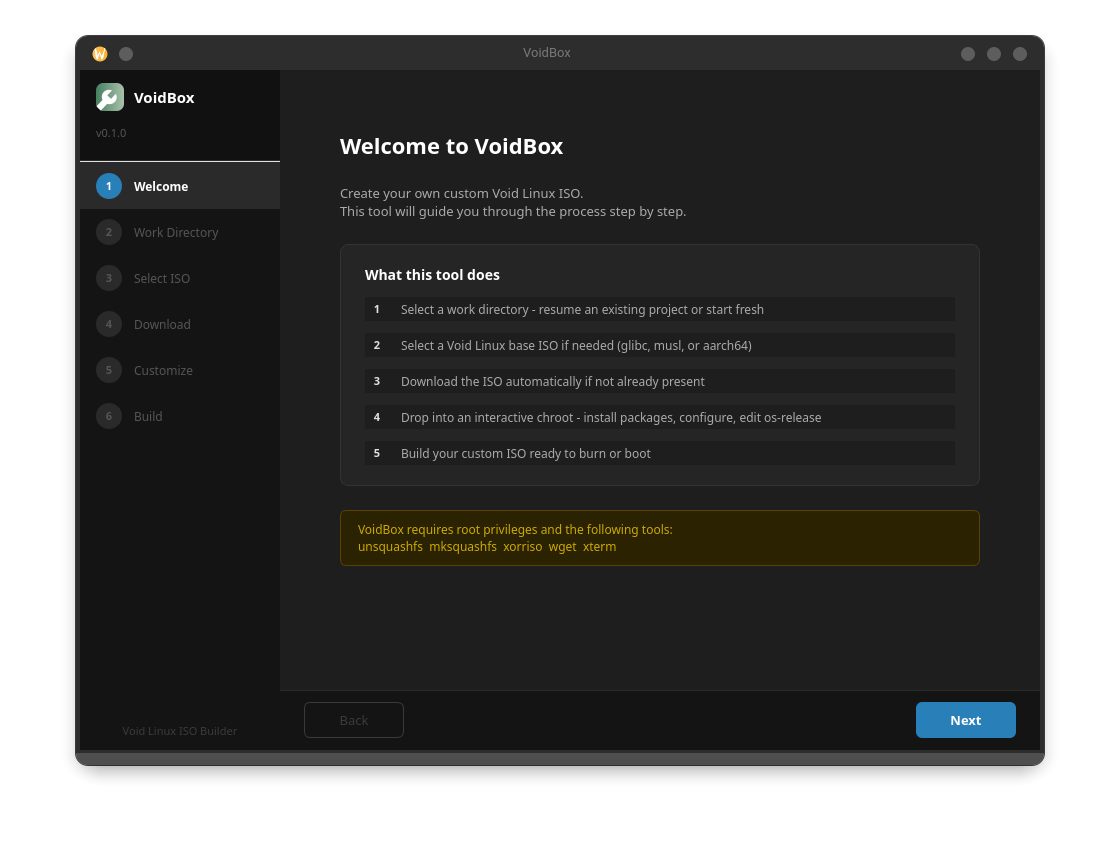
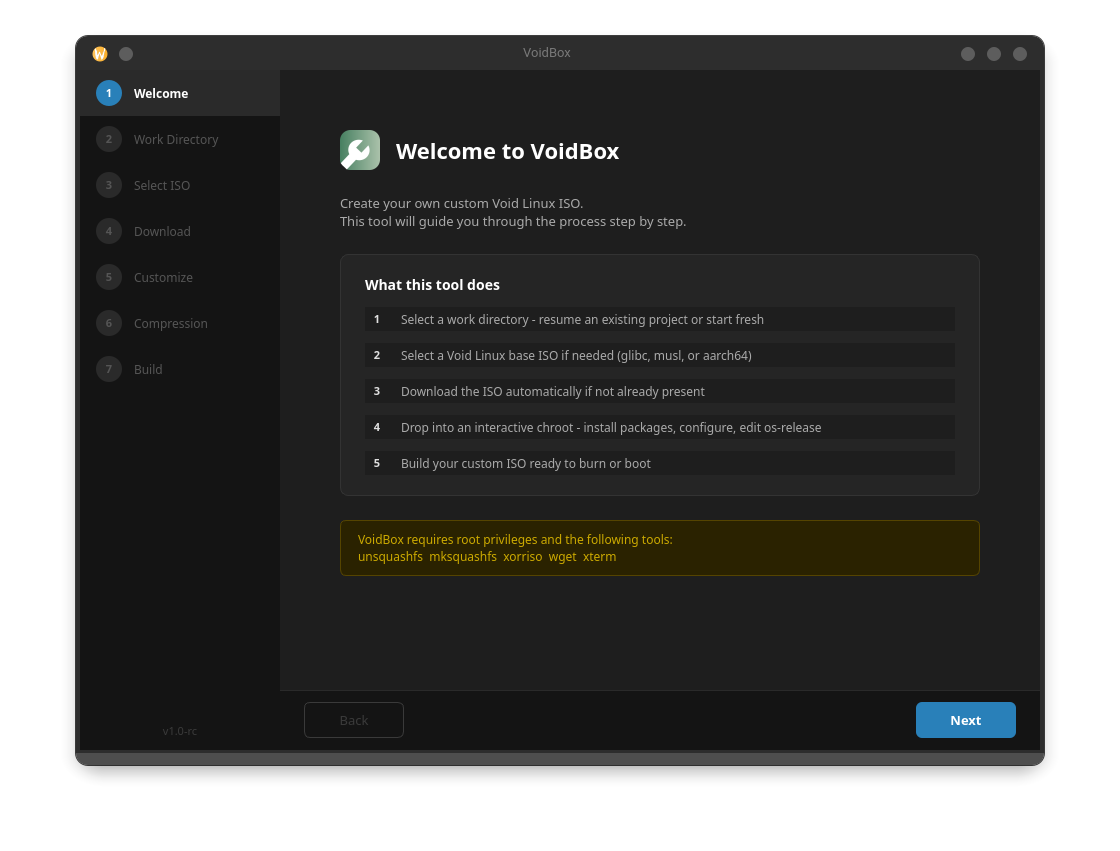
Update welcome menu

diff --git a/ui/main_window.py b/ui/main_window.py
@@ -84,37 +84,7 @@ class MainWindow(QMainWindow):
         layout.setContentsMargins(0, 0, 0, 0)
         layout.setSpacing(0)
 
-        title_block = QWidget()
-        title_block.setObjectName("sidebarTitle")
-        title_block.setFixedHeight(90)
-        tbl = QVBoxLayout(title_block)
-        tbl.setContentsMargins(16, 12, 16, 12)
-        tbl.setSpacing(4)
 
-        logo_row = QHBoxLayout()
-        logo_row.setSpacing(10)
-        logo_path = os.path.join(ASSETS_DIR, "logo.svg")
-        if os.path.exists(logo_path):
-            logo_label = QLabel()
-            px = QPixmap(logo_path).scaled(28, 28, Qt.KeepAspectRatio, Qt.SmoothTransformation)
-            logo_label.setPixmap(px)
-            logo_row.addWidget(logo_label)
-
-        app_label = QLabel("VoidBox")
-        app_label.setObjectName("sidebarAppName")
-        logo_row.addWidget(app_label)
-        logo_row.addStretch()
-
-        ver_label = QLabel("v0.1.0")
-        ver_label.setObjectName("sidebarVersion")
-        tbl.addLayout(logo_row)
-        tbl.addWidget(ver_label)
-        layout.addWidget(title_block)
-
-        sep = QFrame()
-        sep.setFrameShape(QFrame.HLine)
-        sep.setObjectName("sidebarSep")
-        layout.addWidget(sep)
 
         self.step_widgets = []
         for i, name in enumerate(PAGES):
@@ -123,10 +93,9 @@ class MainWindow(QMainWindow):
             self.step_widgets.append(w)
 
         layout.addStretch()
-        footer = QLabel("Void Linux ISO Builder")
+        footer = QLabel("v1.0-rc")
         footer.setObjectName("sidebarFooter")
         footer.setAlignment(Qt.AlignCenter)
-        footer.setWordWrap(True)
         layout.addWidget(footer)
         return sidebar
 

diff --git a/ui/welcome_page.py b/ui/welcome_page.py
@@ -1,5 +1,9 @@
+import os
 from PySide6.QtWidgets import QWidget, QVBoxLayout, QLabel, QFrame, QHBoxLayout
 from PySide6.QtCore import Qt
+from PySide6.QtGui import QPixmap, QFont
+
+ASSETS_DIR = os.path.join(os.path.dirname(os.path.dirname(os.path.abspath(__file__))), "assets")
 
 
 class WelcomePage(QWidget):
@@ -12,8 +16,28 @@ class WelcomePage(QWidget):
         layout.setContentsMargins(60, 60, 60, 40)
         layout.setSpacing(24)
 
+        # Header row: logo + title aligned
+        header_row = QHBoxLayout()
+        header_row.setSpacing(16)
+        header_row.setAlignment(Qt.AlignVCenter)
+
+        logo_path = os.path.join(ASSETS_DIR, "logo.svg")
+        if os.path.exists(logo_path):
+            logo_label = QLabel()
+            px = QPixmap(logo_path).scaled(40, 40, Qt.KeepAspectRatio, Qt.SmoothTransformation)
+            logo_label.setPixmap(px)
+            logo_label.setFixedSize(40, 40)
+            header_row.addWidget(logo_label)
+
         title = QLabel("Welcome to VoidBox")
         title.setObjectName("pageTitle")
+        f = QFont()
+        f.setPointSize(26)
+        f.setBold(True)
+        title.setFont(f)
+        title.setAlignment(Qt.AlignVCenter)
+        header_row.addWidget(title)
+        header_row.addStretch()
 
         subtitle = QLabel(
             "Create your own custom Void Linux ISO.\n"
@@ -22,7 +46,7 @@ class WelcomePage(QWidget):
         subtitle.setObjectName("pageSubtitle")
         subtitle.setWordWrap(True)
 
-        layout.addWidget(title)
+        layout.addLayout(header_row)
         layout.addWidget(subtitle)
 
         card = QFrame()